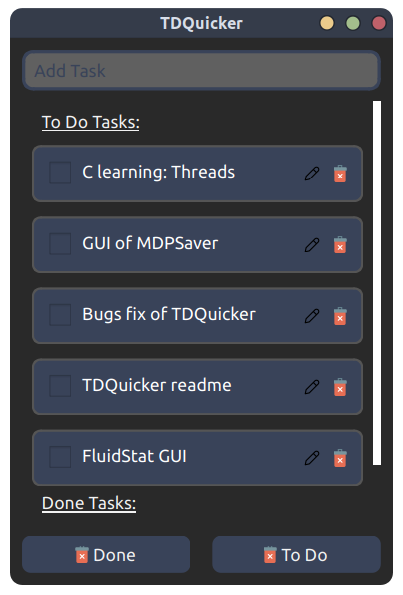
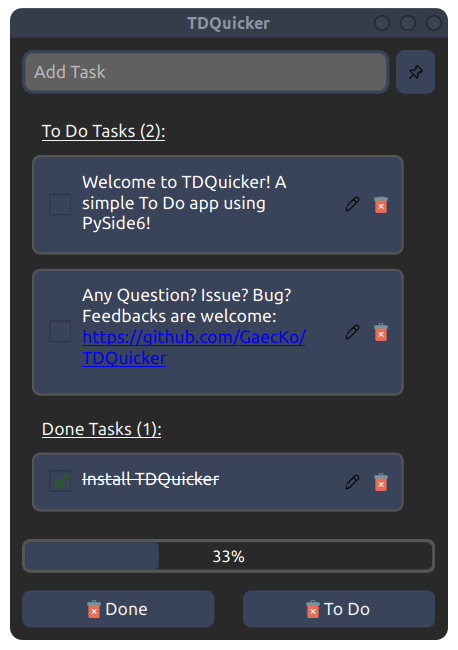
🐛 Ready for distribution ?

diff --git a/.assets/style.css b/.assets/style.css
@@ -11,6 +11,14 @@ QLabel {
     padding-left: 5px;
 }
 
+QToolTip {
+    background-color: #404040; 
+    color: white;
+    font-size: 14px; 
+    border: 1px solid black;
+    border-radius: 8px;
+}
+
 QTextEdit#taskText {
     border: 0px;
     color: white;
@@ -49,13 +57,9 @@ QLineEdit {
     background-color: #606060;
     border: 3px solid #394359;
     border-radius: 10px;
-    color: #394359;
+    color: rgb(186, 186, 186);
     font-size: 16px;
     padding: 6px;
-}
-
-QLineEdit:focus { 
-    color: white;  /* Color when the text is not a placeholder text */
 }
   
 /* Style for QPushButton */

diff --git a/TDQuicker.py b/TDQuicker.py
@@ -4,15 +4,16 @@
 
 from PySide6.QtWidgets import QHBoxLayout, QSizePolicy, QTextEdit, QVBoxLayout, QPushButton, QWidget, QApplication, QLineEdit, QCheckBox, QLabel, QGroupBox, QMessageBox, QScrollArea, QProgressBar
 from PySide6.QtGui import QIcon, QTextOption
-from PySide6.QtCore import Qt, QSize, QPropertyAnimation
+from PySide6.QtCore import Qt, QPropertyAnimation
 
 from datetime import datetime
 from data.data import * 
 import time
 import re
 
-
 from functools import partial
+
+# sticky mode ! 
 
 class ProgressBar(QProgressBar):
     def __init__(self):
@@ -76,7 +77,6 @@ class TDQuicker(QWidget):
             # Text of the task 
             self.te_text = QTextEdit()
             
-
             self.cus = QIcon(".assets/edit.png")
             self.EditButton = QPushButton(self.cus, "")
 
@@ -84,8 +84,6 @@ class TDQuicker(QWidget):
             self.bin = QIcon(".assets/bin.png")
             self.DeleteButton = QPushButton(self.bin, "")
         
-        
-
         def linkify(self, text):
             # Regular expression pattern for matching URLs
             url_pattern = re.compile(r'http[s]?://(?:[a-zA-Z]|[0-9]|[$-_@.&+]|[!*\(\),]|(?:%[0-9a-fA-F][0-9a-fA-F]))+')
@@ -153,10 +151,11 @@ class TDQuicker(QWidget):
     def create_widgets(self):
         # Add Task Bar:
         self.ip_add = QLineEdit()
+        # Add Sticky button
+        self.btn_sticky = QPushButton(icon=QIcon(".assets/stick.png"))
 
         # main widget for scrollable uses
         self.main_widget = QWidget()
-
 
         # Add Clear All button: 
         self.btn_clearDone = QPushButton(icon=QIcon(".assets/bin.png"), text="Done") 
@@ -172,11 +171,16 @@ class TDQuicker(QWidget):
         self.progress_bar = ProgressBar()
 
     def modify_widgets(self):
-        # Add Task Bar:
+        # Task Bar:
         self.ip_add.setPlaceholderText("Add Task")
         self.ip_add.setMinimumHeight(40)
 
-        # Rule for To DO tasks Label:
+        # sticky button 
+        self.btn_sticky.setMaximumSize(40, 40)
+        self.btn_sticky.setToolTip("Enable / Disable Sticky mode")
+
+
+        # Rule for To Do tasks Label:
         size_policy = QSizePolicy()
         size_policy.setVerticalPolicy(QSizePolicy.Fixed)
 
@@ -191,6 +195,9 @@ class TDQuicker(QWidget):
     def create_layouts(self):
         # Main layout: 
         self.main_layout = QVBoxLayout(self)
+
+        # Top layout for input and sticky button
+        self.top_layout = QHBoxLayout()
 
         # Create the scrollable widget and layout
         self.scroll_widget = QWidget()
@@ -211,16 +218,17 @@ class TDQuicker(QWidget):
 
     def modify_layouts(self):
         self.resize(400, 550)
-        self.setWindowFlag(Qt.WindowStaysOnTopHint)
         self.setMaximumSize(500, 800)
-        self.setMinimumSize(300, 300)
-        # self.main_layout.setSpacing(0)
+        self.setMinimumSize(350, 350)
 
         self.doneTasks_layout.setAlignment(Qt.AlignTop)
 
     def add_widgets_to_layouts(self):
         # main layout disposition: 
-        self.main_layout.addWidget(self.ip_add) 
+        self.top_layout.addWidget(self.ip_add)
+        self.top_layout.addWidget(self.btn_sticky)
+
+        self.main_layout.addLayout(self.top_layout) 
 
         # ---- Scrollable Widget: 
 
@@ -270,7 +278,19 @@ class TDQuicker(QWidget):
         self.ip_add.returnPressed.connect(self.add_task)
         self.btn_clearDone.pressed.connect(partial(self.clear_tasks, True))
         self.btn_clearNotDone.pressed.connect(partial(self.clear_tasks, False))
+        self.btn_sticky.pressed.connect(self.switch_sticky)
     
+    def switch_sticky(self):
+        flags = self.windowFlags()
+        if flags & Qt.WindowStaysOnTopHint:
+            self.setWindowFlags(flags & ~Qt.WindowStaysOnTopHint)
+            self.btn_sticky.setIcon(QIcon(".assets/stick.png"))
+        else:
+            self.setWindowFlags(flags | Qt.WindowStaysOnTopHint)
+            self.btn_sticky.setIcon(QIcon(".assets/sticked.png"))
+        
+        self.show()
+
     # ========= Tasks Addition =========
 
     def __init_tasks__(self):
@@ -332,8 +352,9 @@ class TDQuicker(QWidget):
                 task.te_text.setStyleSheet("border: none; border-style: none;")
     
     def update_task_text(self, old_task_text):
-
         new_text = self.tasks[old_task_text].te_text.toPlainText() # get the new text 
+        if new_text in self.tasks or new_text == "" or new_text == len(new_text) * " ": # case of not adding the task
+            return
         self.tasks[new_text] = self.tasks.pop(old_task_text)
 
         task = self.tasks[new_text]
@@ -392,11 +413,11 @@ class TDQuicker(QWidget):
         del self.tasks[task_text] # delete the task from the memory 
         self.refresh_progress_status()
 
-    def clear_tasks(self, done: bool):
+    def clear_tasks(self, done_status: bool):
         # delete task with given done state (True or False) 
 
         # Pop Up Warning
-        action = "delete all tasks marked as 'done tasks'" if done else "delete all tasks marked as 'not done'"
+        action = "delete all tasks marked as 'done tasks'" if done_status else "delete all tasks marked as 'not done'"
         
         reply = QMessageBox.question(self, "Warning", f"Are you sure you want to {action}?", 
         QMessageBox.Yes | QMessageBox.No, QMessageBox.No
@@ -407,15 +428,26 @@ class TDQuicker(QWidget):
         # Delete specified task: 
         deleted = []
         for task_text in self.tasks.keys():
-            if self.tasks[task_text].done == done:
-                delete_task(task_text, done)
+            status = self.tasks[task_text].done
+
+            if status == done_status:
+                delete_task(task_text, done_status)
                 deleted.append(task_text)
-                for elem in self.tasks[task_text].attributes:
-                    elem.deleteLater()
+
+                if status: 
+                    self.doneTasks_layout.removeWidget(self.tasks[task_text].GroupBox) # remove from layout so progress status works
+                else:
+                    self.tasks_layout.removeWidget(self.tasks[task_text].GroupBox)
+
+                for elem in self.tasks[task_text].attributes: # all components of the task
+                    # elem.deleteLater() doesnt refresh the layouts components, so it has to be done manually (code just above)
+                    elem.deleteLater() 
         
         for task_text in deleted: # remove removed task from self.tasks
             del self.tasks[task_text]
         del deleted
+        self.refresh_progress_status()
+        
         
     def move_task(self, task_text: str, from_save: bool =None):
 

diff --git a/README.md b/README.md
@@ -13,29 +13,67 @@
 
 </h1>
 
-## TDQuicher
-TDQuicker is a simple To Do list made with `PySide6`, `Qt`. 
-<p align="center">
+**TDQuicker** is a simple **To Do list** made with `PySide6`, `Qt`. 
+<p float="left" align="center">
     <img src=".git_files/TDQuicker.png" width=300>
+	<img src=".git_files/all_done.png" width=300>
 </p>
 
 ****
-### Installation: 
-##### <ins> Using Python </ins> 
-You need [python3.x](https://www.python.org/downloads/) installed
-You will need to install these packages:
+### <ins>Installation</ins>: 
+##### Using Python 
+You need [python3.x](https://www.python.org/downloads/) installed. You will also need to install these packages:
 1. **PySide6**: `pip install PySide6`
 2. **functools**: `pip install functools`
 
 The app also requires these already installed packages:
-1. **Datetime**
+1. **Datetime** 
 2. **time** 
+3. **re** 
 
 ****
 
-### Usage:
+### <ins>Launch</ins>:
 1. Place yourself in the directory where you installed the app (for example `/home/usr/Documents/TDQuicker/`) 
 2. You can then launch the `.py` file:`python TDQuicker.py`. This will start the GUI. 
 
-### Notes:
-More info will come soon. 
+****
+
+### <ins> Usage </ins>:
+<p align="center"> <img style="border-radius:8px;" src=".git_files/usage.gif"> </p>
+
+##### Add Task
+* To add a task, place your self in the text prompt, type a valid task (so not empty) and press enter to save! 
+
+##### Check Task
+* To mark a task as done, you can click on the box and it will move the task to the done section 
+
+##### Edit Task
+* To edit a task, click on pencil button, place yourself in the text, modify the content as you wish and press enter to save. You can also reclick on the same button to cancel the changes. 
+
+
+##### Delete Task
+* To delete a task, simply click on the bin button
+* You can also click on the bottom 
+	* "Done" button to delete all done tasks
+	* "To Do" button to delete all To Do tasks
+
+##### Sticky Window
+* To make the window stick over other windows, you can click on the pin button (next to the text prompt). This allows the app to stay over other windows even if it looses focus. 
+<p align="center"><img src=".git_files/ex_sticky.png" ></p>
+
+****
+
+### <ins>Known Issues</ins>:
+A few issues are currently known. 
+1. Task alignement when the scroll bar is not centered: 
+	* I have tried a lot of things to fix this, but without any result... 
+
+2. Height of the task boxes:
+	* The height of the boxes containing the task is not responsive. I couldn't figure how to make it have a good height without making the text scrollable. 
+
+3. Sticky mode refresh the window:
+	* That's not a huge problem but it's not looking fantastic... I don't even know if it is possible to avoid that. 
+
+* If you have any idea on how to fix these bugs or if you see any other: [Pull Requests](https://github.com/GaecKo/TDQuicker/pulls) and [Issues](https://github.com/GaecKo/TDQuicker/issues) are good places to let me know! 
+
